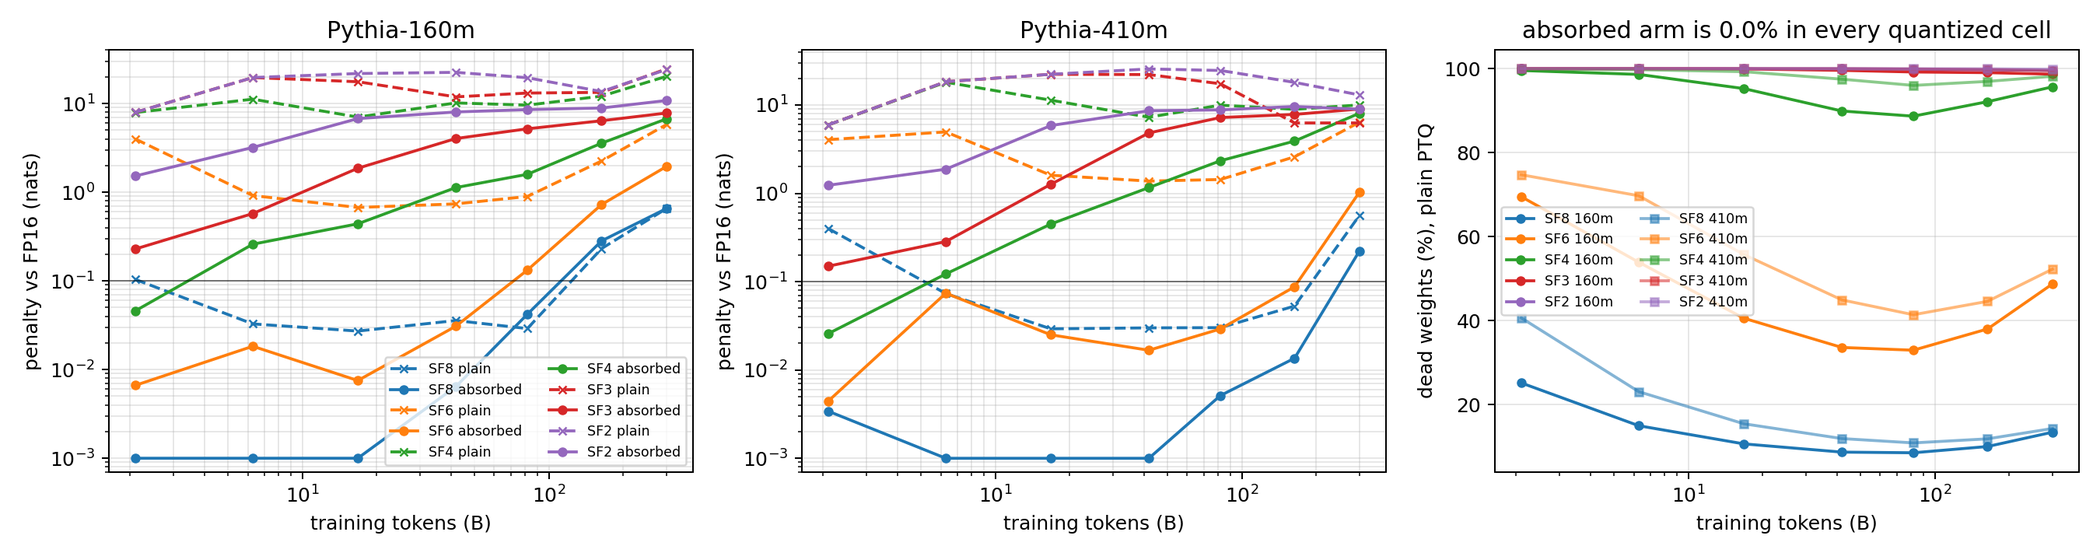
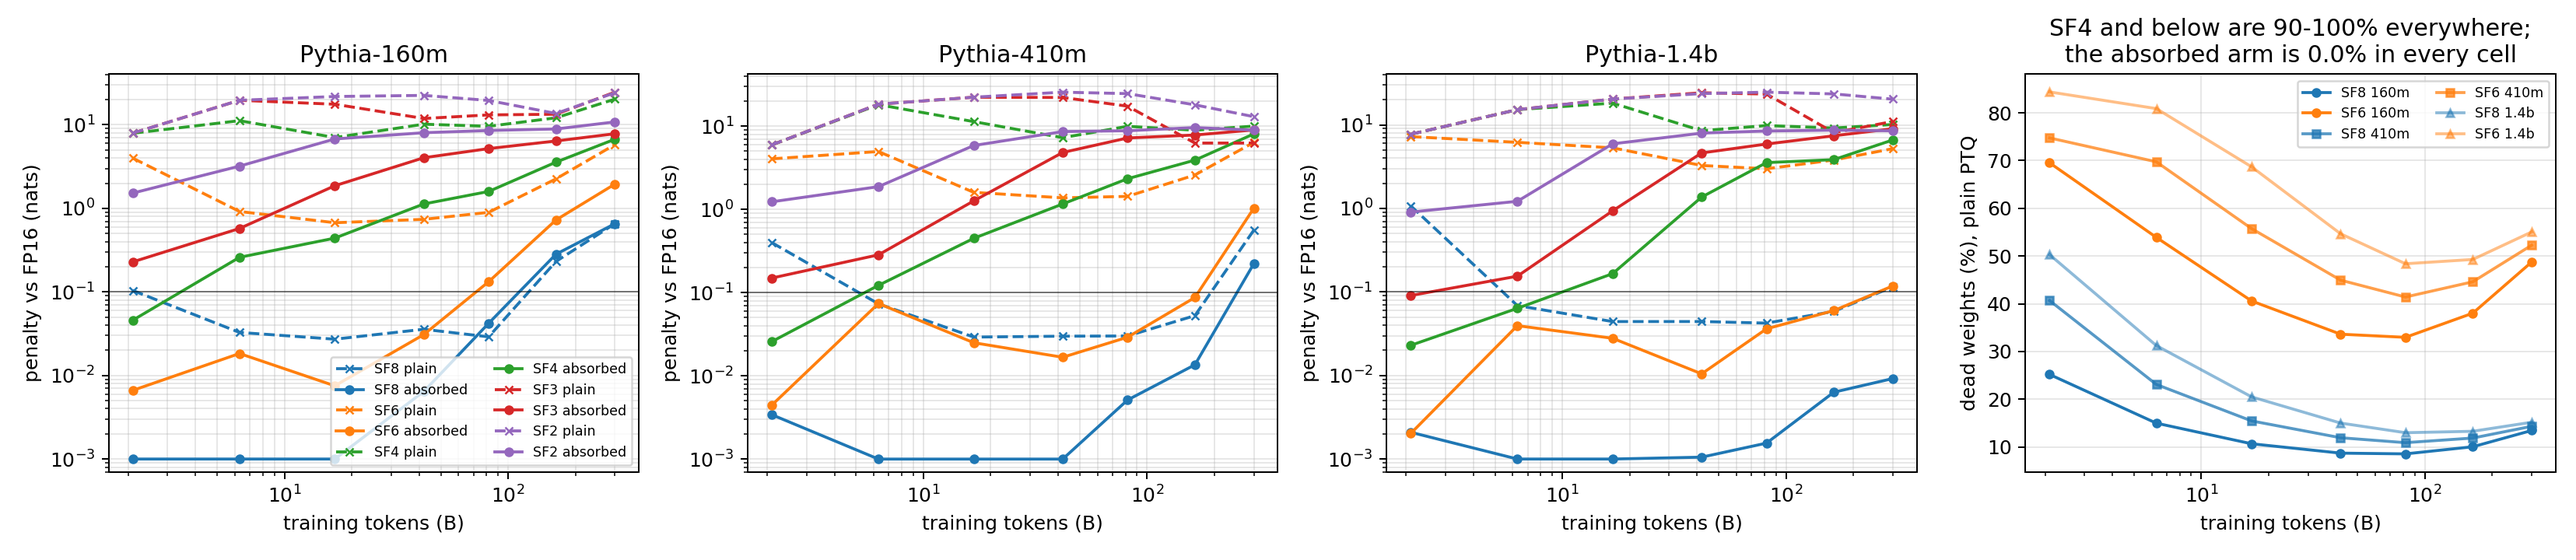
Pythia-1.4b closes the size axis: the U's right branch shrinks with scale
77 cells on the RTX 4090, the size the original 4GB-card grid could not fit.
Grid is now 257 cells over four sizes, with 1.4b carrying the full ladder at
all five precisions.

The size axis changes the headline. Absorption removed the U's left branch
but barely touched the right one at 160m, which is how 4.2 read until now.
At the final, shipped checkpoint the absorbed SF8 penalty is +0.654 (160m),
+0.222 (410m), +0.009 (1.4b) -- about an order of magnitude per size step,
and the same pattern at SF6 (+1.950, +1.030, +0.118). Across the entire 1.4b
ladder, seven checkpoints from 2.1B to 300B tokens, absorbed SF8 never costs
more than 0.009 nats. The end-of-run fragility 3.3 found is largely a
small-model effect once the scale is in the right place.

Guarded both ways: SF4 shows no size trend at all (+6.717, +8.060, +6.590),
so this is not "bigger models quantize better" in general, and three sizes
order the effect without fitting an exponent.

The left branch confirms the same mechanism from the other end. Plain SF8 at
1.4b's first checkpoint is +1.075 nats with 50.3% of weights dead -- the
worst plain SF8 cell in the grid, the widest model at its most fragile
moment. Absorption takes it to +0.002. And the SF8 dead fraction at each
model's worst checkpoint rises with width: 25.2%, 40.7%, 50.3%, which is
exp5's fan_in prediction tested on the size axis.

4.1's inversion still does not appear: monotonic at 18 of 21 checkpoints,
[…]

diff --git a/benchmarks/make_lab_figures.py b/benchmarks/make_lab_figures.py
@@ -438,13 +438,13 @@ def fig_ptq_absorb(rows, out):
             return None
         base = get(size, st, 0, False, cell.get("host"))
         return None if not base else cell["val_loss"] - base["val_loss"]
-    sizes = [s for s in ("160m", "410m") if any(r["size"] == s for r in rows)]
+    sizes = [s for s in ("160m", "410m", "1.4b") if any(r["size"] == s for r in rows)]
     if not sizes:
         return None
     steps = sorted({r["step"] for r in rows})
     bits = [8, 6, 4, 3, 2]
     FLOOR = 1e-3  # absorbed SF8 lands at or below FP16; clamp so log axis renders
-    fig, ax = plt.subplots(1, len(sizes) + 1, figsize=(5.0 * (len(sizes) + 1), 4.0))
+    fig, ax = plt.subplots(1, len(sizes) + 1, figsize=(4.6 * (len(sizes) + 1), 4.0))
 
     for k, size in enumerate(sizes):
         a = ax[k]
@@ -468,9 +468,13 @@ def fig_ptq_absorb(rows, out):
         if k == 0:
             a.legend(fontsize=7, ncol=2)
 
+    # Dead weights: only SF8 and SF6 are informative -- SF4 and below sit at
+    # 90-100% everywhere. Showing them by size makes the fan_in story visible:
+    # the wider the model, the larger the fraction that underflows a fixed grid.
     a = ax[-1]
+    marks = ["o", "s", "^", "D"]
     for k, size in enumerate(sizes):
-        for j, b in enumerate(bits):
+        for j, b in enumerate((8, 6)):
             xs, ys = [], []
             for st in steps:
                 base = get(size, st, 0, False); cell = get(size, st, b, False)
@@ -478,11 +482,11 @@ def fig_ptq_absorb(rows, out):
                     continue
                 xs.append(base["tokens"] / 1e9); ys.append(100 * cell["dead_frac"])
             if xs:
-                a.plot(xs, ys, "-", color=C[j], marker=["o", "s"][k], ms=4,
-                       alpha=[1.0, 0.55][k], label=f"SF{b} {size}")
+                a.plot(xs, ys, "-", color=C[j], marker=marks[k % len(marks)],
+                       ms=4, alpha=1.0 - 0.25 * k, label=f"SF{b} {size}")
     a.set_xscale("log"); a.set_xlabel("training tokens (B)")
     a.set_ylabel("dead weights (%), plain PTQ")
-    a.set_title("absorbed arm is 0.0% in every quantized cell")
+    a.set_title("SF4 and below are 90-100% everywhere;\nthe absorbed arm is 0.0% in every cell")
     a.grid(alpha=.3); a.legend(fontsize=7, ncol=2)
 
     fig.tight_layout(); p = os.path.join(out, "lab_ptq_absorb.png")

diff --git a/SCALING_LAWS.md b/SCALING_LAWS.md
@@ -308,7 +308,10 @@ half bits of deployable precision.
 ![D/N law](benchmarks/figures/lab_exp2_dn_law.png)
 
 **Practical consequence.** The worst checkpoint to quantize is the one that
-ships. The same model taken from the middle of its schedule tolerates PTQ 3x
+ships -- under plain PTQ. 4.2 revisits this branch with the scale absorbed and
+finds it shrinks sharply with model size: at 1.4b the shipped checkpoint costs
+absorbed SF8 0.009 nats, against 0.115 for the same checkpoint and precision
+without absorption. The same model taken from the middle of its schedule tolerates PTQ 3x
 to 25x better, with the gap widening the further past compute-optimal the model
 is trained.
 
@@ -436,9 +439,10 @@ slice exp2 uses, with a per-input-channel scale folded into the activation so
 the weight reaching the array is an exact SF grid point and no runtime scale
 multiply survives.
 
-180 cells, run in two passes on two machines. The first covers {70m, 160m,
+257 cells, run in three passes on two machines. The first covers {70m, 160m,
 410m} x 7 checkpoints x {SF8, SF6, SF4} x {plain, absorbed} on a 4GB card; the
-second adds SF3 and SF2 over the same ladder on an RTX 4090. Every cell is
+second adds SF3 and SF2 over the same ladder on an RTX 4090; the third adds
+pythia-1.4b at all five precisions, which needed the larger card. Every cell is
 scored against an FP16 control measured on its own host at its own checkpoint,
 and the `host` field in the results file records which.
 
@@ -450,17 +454,21 @@ no seed axis, so this checks the harness and the cross-host numerics rather
 than the noise -- but it is also why the controls are not shared between
 passes.
 
-**Dead weights go to zero, everywhere.** In all 75 absorbed cells the
+**Dead weights go to zero, everywhere.** In all 110 absorbed cells the
 dead-weight fraction is exactly 0.0. Without absorption it never is:
 
 | | SF8 | SF6 | SF4 | SF3 | SF2 |
 | --- | --- | --- | --- | --- | --- |
 | 160m, range over 7 checkpoints | 8.6-25.2% | 33.0-69.5% | 88.7-99.6% | 98.7-100% | 99.6-100% |
 | 410m, range over 7 checkpoints | 10.9-40.7% | 41.4-74.7% | 96.0-99.9% | 99.6-100% | 99.9-100% |
+| 1.4b, range over 7 checkpoints | 13.0-50.3% | 48.4-84.4% | 98.5-100% | 100% | 100% |
 
 This is the exp5 mechanism (dead fraction scales with `fan_in` against a fixed
 grid spacing) appearing at PTQ: rescaling each input channel to the grid's full
-range removes the `fan_in` dependence, so nothing underflows.
+range removes the `fan_in` dependence, so nothing underflows. The size axis
+tests that mechanism directly, and it holds -- at each model's worst checkpoint
+the SF8 dead fraction rises with width, 25.2% at 160m, 40.7% at 410m, 50.3% at
+1.4b.
 
 **Penalty vs the cell's own FP16 control**, in nats:
 
@@ -544,16 +552,43 @@ once the grid is coarse: the same three bits are worth a fifth of a nat at 2.1B
 tokens and nine nats at 300B. SF2 never gets under a nat anywhere, which is the
 honest end of the ladder for PTQ.
 
+**At 1.4b the right branch of the U nearly disappears -- but only under
+absorption.** The size axis was the other thing this grid could not reach, and
+it changes the headline. Penalty at the final, shipped checkpoint:
+
+| absorbed, 299.9B tokens | SF8 | SF6 | SF4 |
+| --- | --- | --- | --- |
+| 160m | +0.654 | +1.950 | +6.717 |
+| 410m | +0.222 | +1.030 | +8.060 |
+| 1.4b | **+0.009** | **+0.118** | +6.590 |
+
+At SF8 and SF6 the over-training penalty falls by roughly an order of magnitude
+per size step. Across the *entire* 1.4b ladder -- seven checkpoints from 2.1B to
+300B tokens -- absorbed SF8 never costs more than **0.009 nats**, and absorbed
+SF6 never more than 0.118. The fragility 3.3 found at the end of a training run,
+and that absorption could not remove at 160m, is largely a small-model effect
+once the scale is in the right place.
+
+Two guards on that. It is specific to the finer grids: SF4 shows no size trend
+at all (+6.717, +8.060, +6.590), so this is not "bigger models quantize better"
+in general. And it is three sizes, which orders them but does not fit an
+exponent.
+
+The left branch confirms the same mechanism from the other end. Plain SF8 at
+1.4b's first checkpoint is +1.075 nats, the worst plain SF8 cell anywhere in
+the grid, with 50.3% of weights dead -- the widest model at its most fragile
+moment. Absorption takes that cell to +0.002.
+
 **4.1's inversion does not survive PTQ, which is evidence about its
 mechanism.** 4.1 finds coarser grids landing *closer* to FP32 under scale
 absorption -- SF2 < SF3 < SF4 in penalty, replicated over three seeds in
 experiment 8 -- and section 6 has carried "what remains unexplained is the
 mechanism" as an open item ever since. This grid is the same scale placement
 and the same precisions with training removed, and the ordering is the ordinary
-one: penalty rises monotonically from SF8 to SF2 at 13 of the 14 checkpoints.
-The single exception is 410m at 299.9B, where SF3 and SF2 sit 0.04 nats apart
-at +8.99 and +8.95 -- both models are destroyed, and differences between
-destroyed models are not meaningful.
+one: penalty rises monotonically from SF8 to SF2 at 18 of the 21 checkpoints across all three sizes. All three exceptions are
+non-results: 410m and 1.4b at 299.9B, where SF3 and SF2 sit a few hundredths
+apart with both models destroyed, and 1.4b at 2.1B, where absorbed SF8 and SF6
+differ by 7e-5 nats, which is a tie rather than an inversion.
 
 That is what the regularisation hypothesis predicts. If a coarse grid helps by
 constraining an over-parameterised model *during training*, then quantizing
@@ -572,12 +607,12 @@ the cells under a nat.
 
 ![PTQ under scale absorption](benchmarks/figures/lab_ptq_absorb.png)
 
-Read this narrowly. Three sizes, no 1.4b, so the size axis is still too short
-to fit anything -- and 1.4b is the size 3.3's own U-shape table leans on, so
-that gap is the one worth closing next. The SF3/SF2 pass covers the same seven
-checkpoints as the rest, but 70m only at its final one. One eval corpus, 400k
-WikiText-103 tokens at sequence length 2048; PTQ being deterministic removes
-the seed question but says nothing about corpus sensitivity.
+Read this narrowly. Four sizes now, but only three carry a full ladder, which
+orders them without fitting an exponent -- the size trend above is a direction,
+not a law, and 2.8b and 6.9b would be the cells that turn it into one. 70m is
+measured at its final checkpoint only. One eval corpus, 400k WikiText-103
+tokens at sequence length 2048; PTQ being deterministic removes the seed
+question but says nothing about corpus sensitivity.
 
 ---
 
@@ -918,12 +953,13 @@ as a property of the format.
 - **PTQ under scale absorption** is now run (4.2) and answers the original
   form of this bullet: SF4 PTQ was destroying every model because of where the
   scale sat, not because of the four bits. What it opens in its place is
-  narrower. The grid now reaches SF2 and SF3, but it still stops at 410m, which
-  is too short a size axis to fit anything, and it leaves the right branch of
-  the U unexplained, since absorption removes the left branch entirely and
-  barely moves the right. Separating over-training from learning-rate decay on
-  that branch still needs the truncated-schedule Pythia runs 3.3's caveat calls
-  for.
+  narrower. The grid now reaches SF2/SF3 and 1.4b, and the size axis turned out
+  to matter: the right branch of the U, which absorption barely moves at 160m,
+  costs absorbed SF8 only 0.009 nats at 1.4b. What is still open is why. Three
+  sizes order the effect without fitting an exponent, and separating
+  over-training from learning-rate decay on that branch still needs the
+  truncated-schedule Pythia runs 3.3's caveat calls for. 2.8b and 6.9b are the
+  cheapest cells that would turn the size direction into a law.
 - **Activation quantization** is out of scope for the four tiers; 5.1 measures
   it directly on CIFAR-100, and the V-JEPA measurement in
   [SUPERFLOAT_RESULTS.md](SUPERFLOAT_RESULTS.md) shows why it matters.

diff --git a/benchmarks/lab/README.md b/benchmarks/lab/README.md
@@ -20,7 +20,7 @@ silent bug visible, and several were caught that way.
 | 6 | `exp6_lr.py` | does usable step size track grid resolution? | no, not over a 640x range |
 | 7 | `exp1_act.py --no-chan-norm --depth` | does the paper's ResNet-56 instability reproduce? | no: 0.94 pp against 12.0 |
 | 8 | `exp8_tierd_seeds.py` | does 4.1's inversion reproduce, with records kept? | yes: every cell within 0.016 nats |
-| 9 | `exp_ptq_absorb.py` | does the tier C/D scale fix work at PTQ? | yes on the U's left branch, not on its right |
+| 9 | `exp_ptq_absorb.py` | does the tier C/D scale fix work at PTQ? | yes; the left branch goes entirely, the right one shrinks with size |
 
 Two further scripts target tool-use models rather than the scaling study; see
 [TOOL_USE_QAT.md](../../TOOL_USE_QAT.md).
